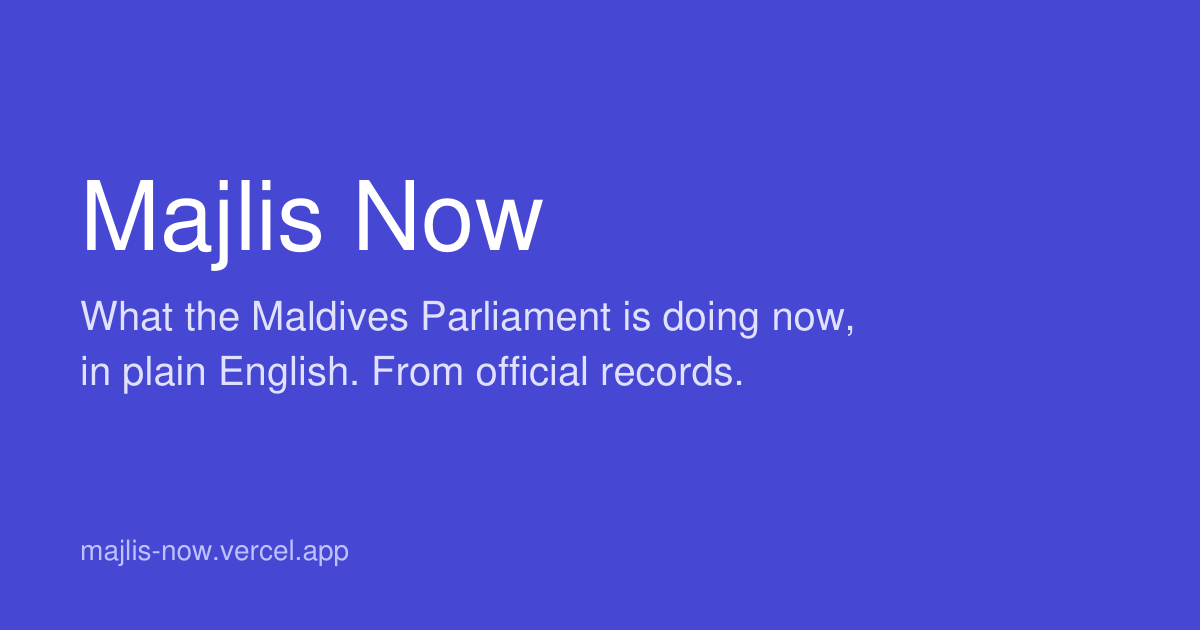
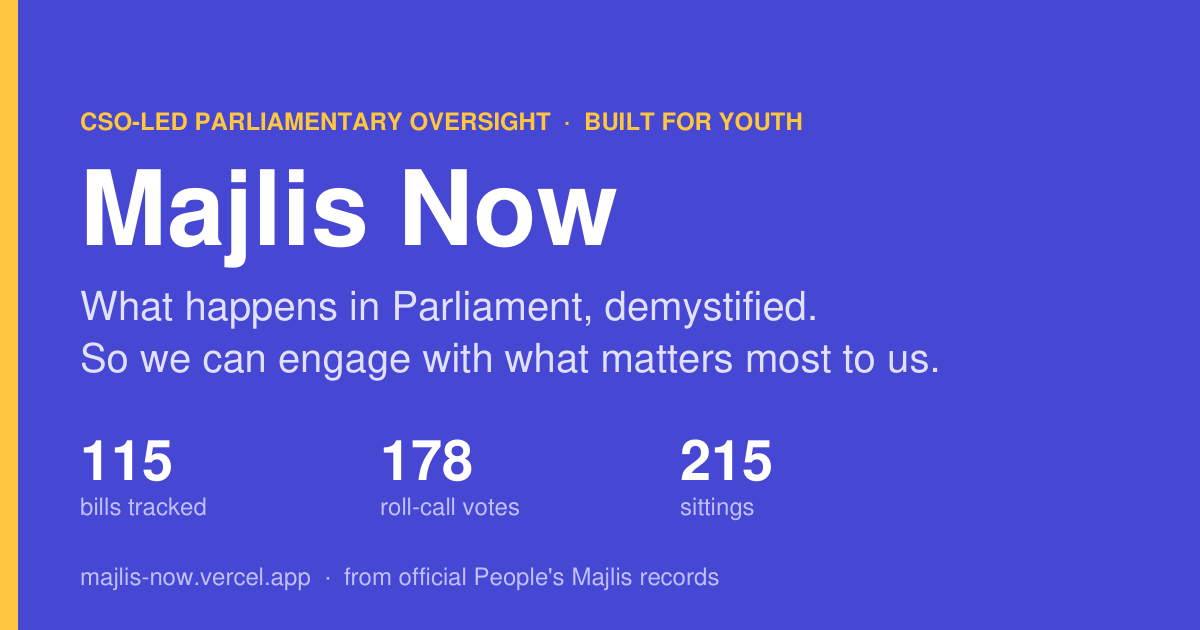
Update OG image and site description: CSO-led oversight tool for youth
OG card now carries the CSO-led / built-for-youth framing and live counts
(bills, roll-call votes, sittings) from the data. Meta, Open Graph, Twitter
and manifest descriptions updated to match.

diff --git a/index.html b/index.html
@@ -5,7 +5,7 @@
     <meta name="viewport" content="width=device-width, initial-scale=1.0" />
     <meta
       name="description"
-      content="What the Maldives Parliament is doing now, in plain English: every bill, every roll-call vote, every sitting agenda — from official People’s Majlis records."
+      content="A CSO-led parliamentary oversight tool built for youth. Majlis Now demystifies what happens in the Maldives Parliament: every bill, vote and sitting in plain English, from official records, so we can engage with the things that matter most to us."
     />
     <title>Majlis Now — What Parliament is doing now</title>
     <link rel="icon" href="/favicon.svg" type="image/svg+xml" />
@@ -14,10 +14,15 @@
     <meta property="og:type" content="website" />
     <meta property="og:site_name" content="Majlis Now" />
     <meta property="og:title" content="Majlis Now — What Parliament is doing now" />
-    <meta property="og:description" content="Every bill, vote and sitting of the Maldives Parliament, in plain English, from official records." />
+    <meta property="og:description" content="A CSO-led parliamentary oversight tool built for youth. Every bill, vote and sitting of the Maldives Parliament in plain English, so we can engage with what matters most to us." />
     <meta property="og:image" content="https://majlis-now.vercel.app/og.png" />
+    <meta property="og:image:width" content="1200" />
+    <meta property="og:image:height" content="630" />
+    <meta property="og:image:alt" content="Majlis Now: a CSO-led parliamentary oversight tool built for youth" />
     <meta property="og:url" content="https://majlis-now.vercel.app/" />
     <meta name="twitter:card" content="summary_large_image" />
+    <meta name="twitter:title" content="Majlis Now — What Parliament is doing now" />
+    <meta name="twitter:description" content="A CSO-led parliamentary oversight tool built for youth. Every bill, vote and sitting of the Maldives Parliament in plain English, so we can engage with what matters most to us." />
     <link rel="preconnect" href="https://fonts.googleapis.com" />
     <link rel="preconnect" href="https://fonts.gstatic.com" crossorigin />
     <link

diff --git a/scripts/build_static.py b/scripts/build_static.py
@@ -27,12 +27,21 @@ print("sitemap:", len(set(urls)), "urls")
 
 # OG image: plain 1200x630 card rendered with PyMuPDF (no extra deps).
 import fitz
+n_votes = len(re.findall(r'^\s+id: "([^"]+)",', rc, flags=re.M))
 doc = fitz.open()
 page = doc.new_page(width=1200, height=630)
 page.draw_rect(fitz.Rect(0, 0, 1200, 630), color=None, fill=(0.275, 0.282, 0.831))
-page.insert_text((80, 250), "Majlis Now", fontsize=96, fontname="helv", color=(1, 1, 1))
-page.insert_text((80, 330), "What the Maldives Parliament is doing now,", fontsize=40, fontname="helv", color=(0.88, 0.88, 1))
-page.insert_text((80, 385), "in plain English. From official records.", fontsize=40, fontname="helv", color=(0.88, 0.88, 1))
-page.insert_text((80, 560), "majlis-now.vercel.app", fontsize=28, fontname="helv", color=(0.75, 0.76, 1))
+page.draw_rect(fitz.Rect(0, 0, 18, 630), color=None, fill=(1, 0.78, 0.25))
+white, soft, faint = (1, 1, 1), (0.88, 0.88, 1), (0.75, 0.76, 1)
+page.insert_text((80, 130), "CSO-LED PARLIAMENTARY OVERSIGHT  ·  BUILT FOR YOUTH", fontsize=24, fontname="hebo", color=(1, 0.78, 0.25))
+page.insert_text((80, 245), "Majlis Now", fontsize=104, fontname="hebo", color=white)
+page.insert_text((80, 320), "What happens in Parliament, demystified.", fontsize=40, fontname="helv", color=soft)
+page.insert_text((80, 372), "So we can engage with what matters most to us.", fontsize=40, fontname="helv", color=soft)
+stats = [(len(works), "bills tracked"), (n_votes, "roll-call votes"), (len(sittings), "sittings")]
+for k, (n, label) in enumerate(stats):
+    x = 80 + k * 300
+    page.insert_text((x, 480), str(n), fontsize=56, fontname="hebo", color=white)
+    page.insert_text((x, 515), label, fontsize=24, fontname="helv", color=faint)
+page.insert_text((80, 585), "majlis-now.vercel.app  ·  from official People's Majlis records", fontsize=24, fontname="helv", color=faint)
 page.get_pixmap(dpi=72).save("public/og.png")
 print("og.png written")
